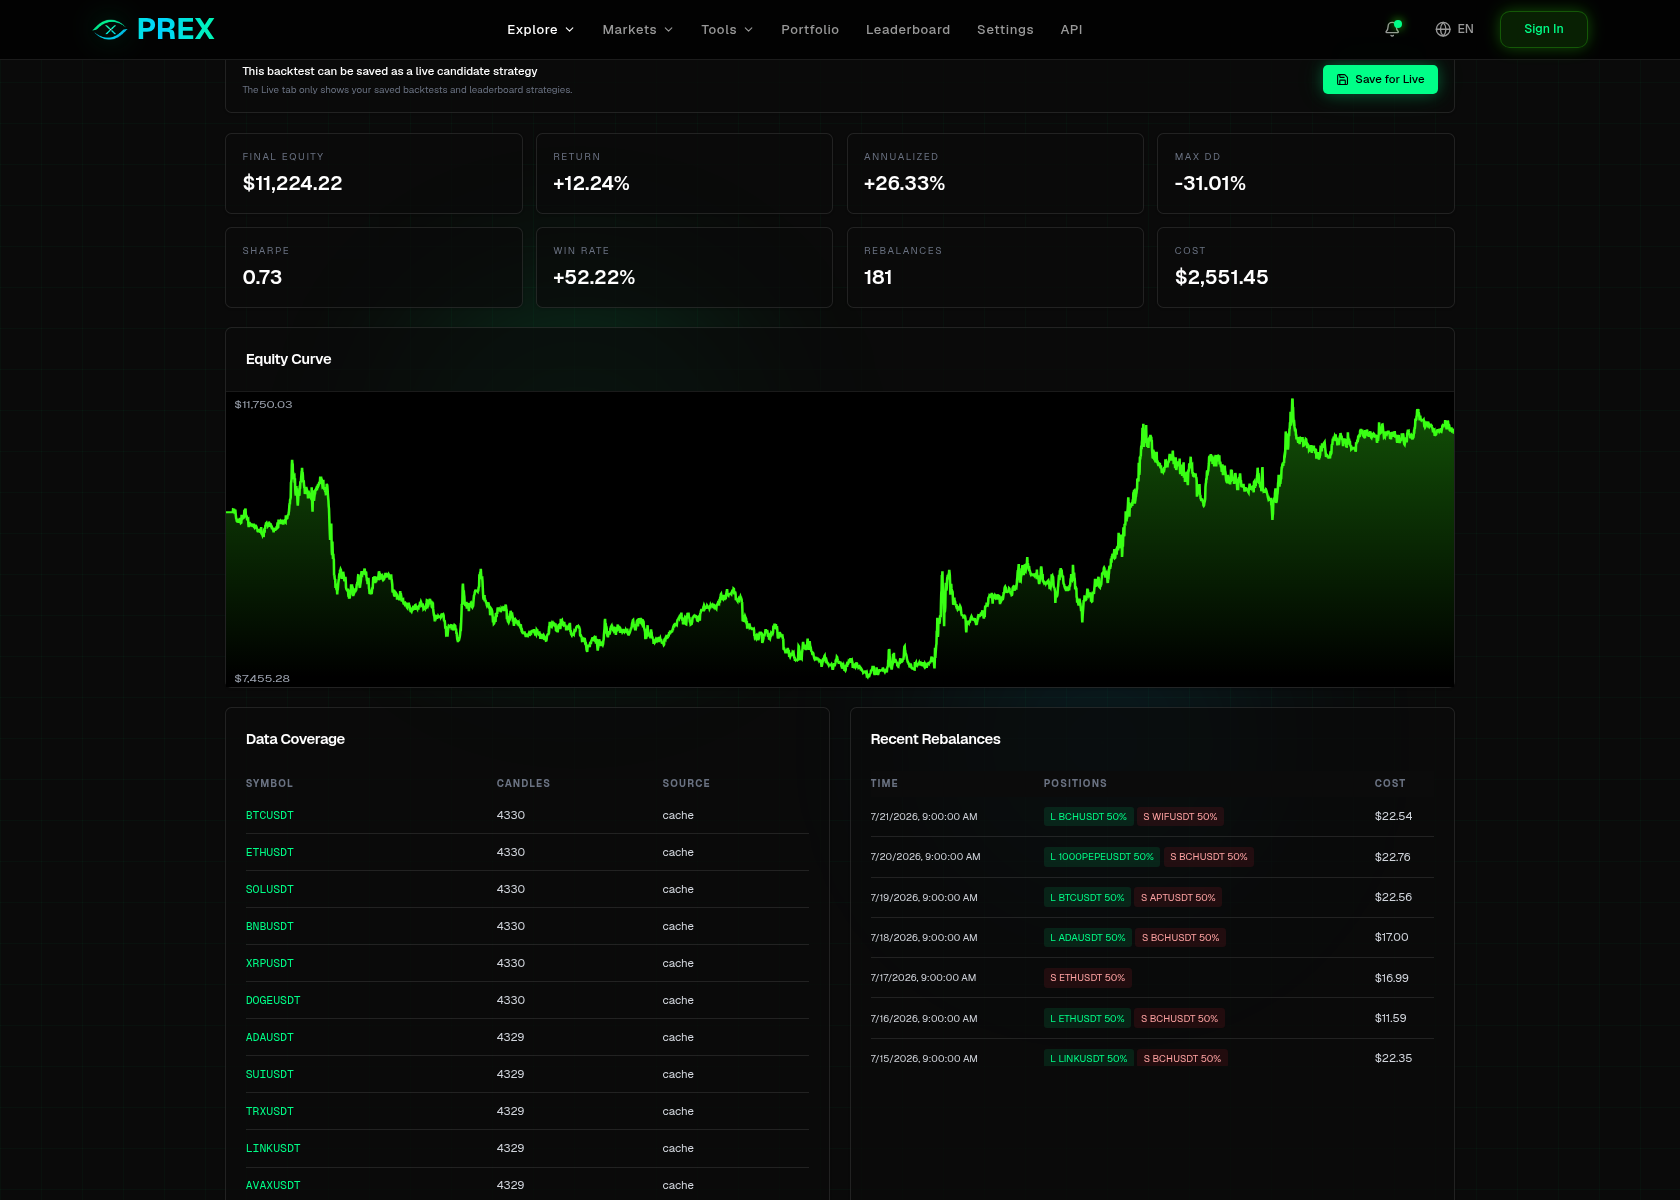
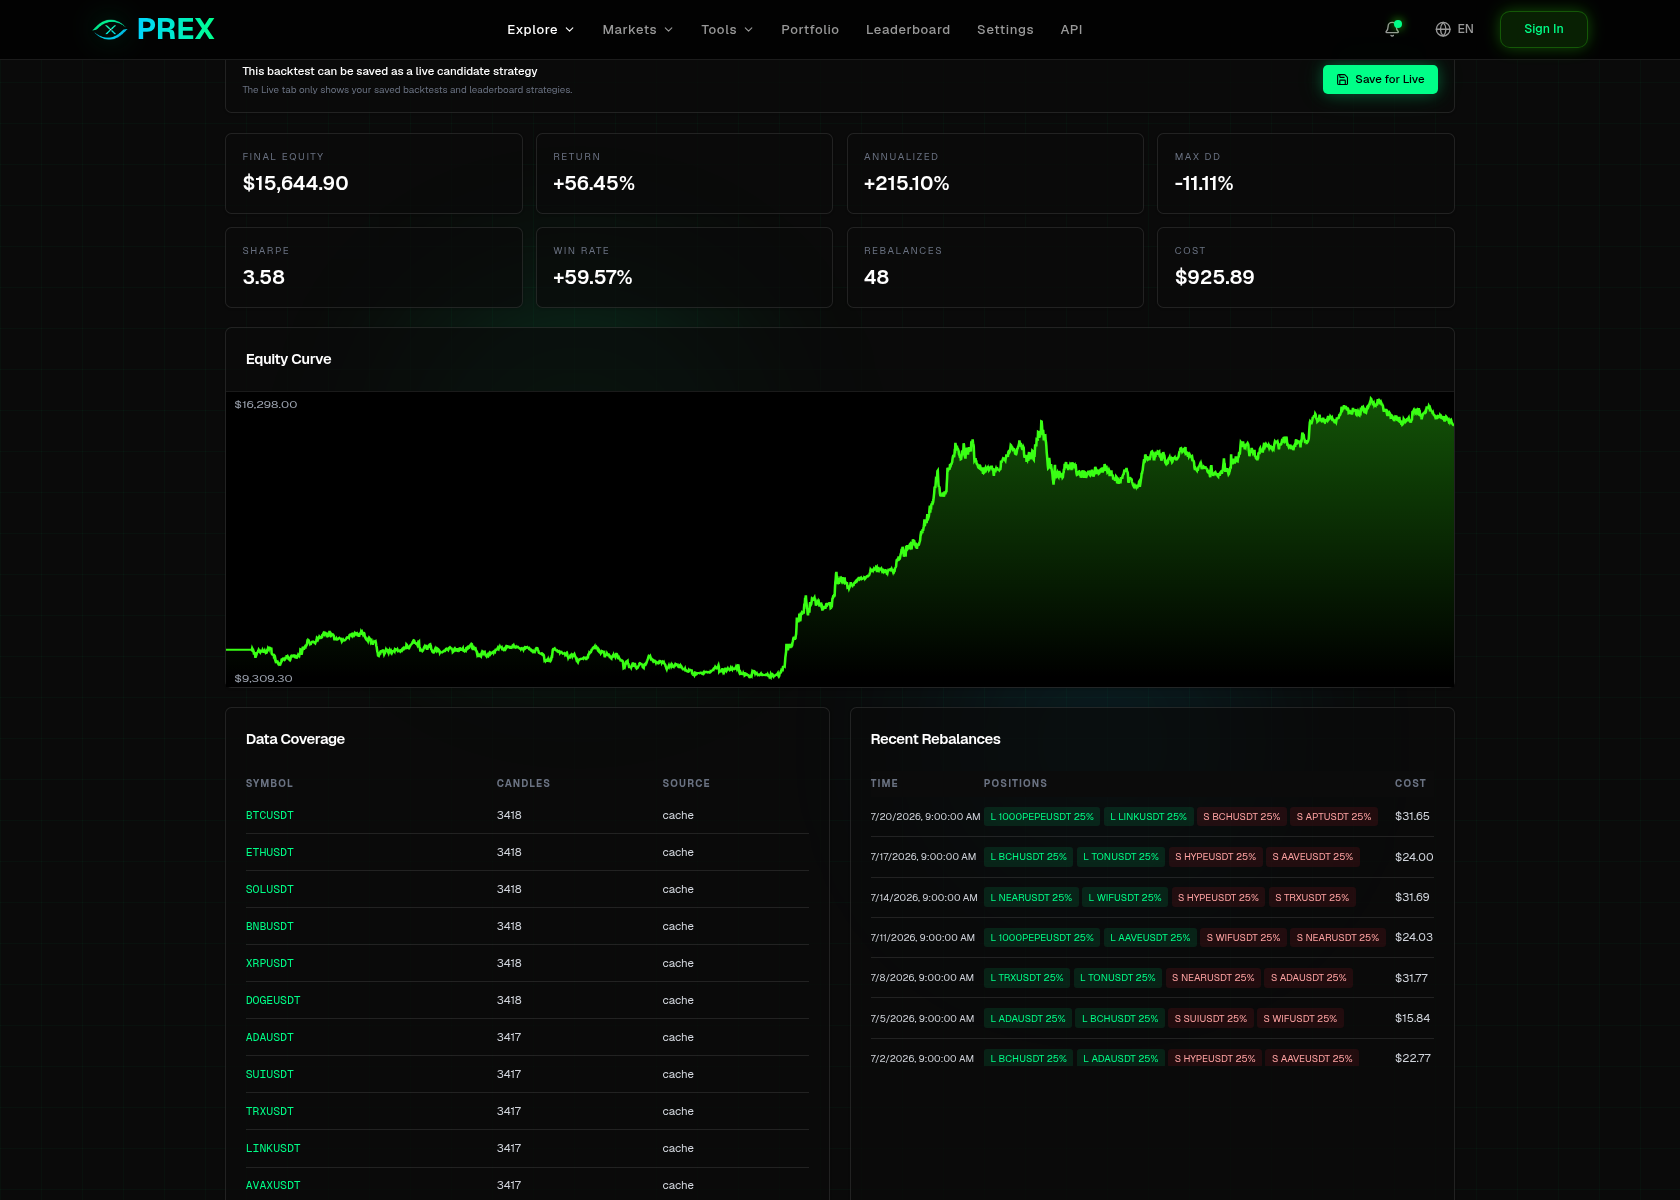
docs: refresh backtest and multi-LLM previews

diff --git a/README.md b/README.md
@@ -37,9 +37,17 @@ PREX helps users discover markets, evaluate strategies, run live execution, and 
 
 ![PREX Strategies](assets/screenshots/strategies.png)
 
+### Multi-LLM Strategy Generation
+
+![PREX Multi-LLM Strategy Generation](assets/screenshots/llm-strategy-generation.png)
+
+PREX can generate parseable strategies through OpenAI, Anthropic, DeepSeek, MiniMax, or Gemini before running the backtest workflow.
+
 ### Natural-Language Backtest Results
 
 ![PREX Backtest Results](assets/screenshots/backtest-results.png)
+
+Illustrative historical market-neutral backtest from March 1 to July 21, 2026, including fees, slippage, data coverage, and rebalance records. Past performance does not guarantee future results.
 
 ### Prediction Markets
 

diff --git a/docs/CHANGELOG.md b/docs/CHANGELOG.md
@@ -5,7 +5,8 @@ This changelog summarizes public product progress. It does not include source co
 ## 2026-07-21
 
 - Updated the US stock perpetuals product screenshot to show the full candlestick, order-entry, and PREX AI workspace.
-- Added a real natural-language backtest result screenshot with return, drawdown, cost, equity curve, data coverage, and recent rebalances.
+- Added the multi-LLM strategy-generation interface, showing OpenAI, Anthropic, DeepSeek, MiniMax, and Gemini provider selection.
+- Refreshed the real backtest result screenshot with a higher-return, lower-drawdown market-neutral example, while retaining costs, the equity curve, data coverage, and rebalance records.
 
 ## 2026-07-12
 